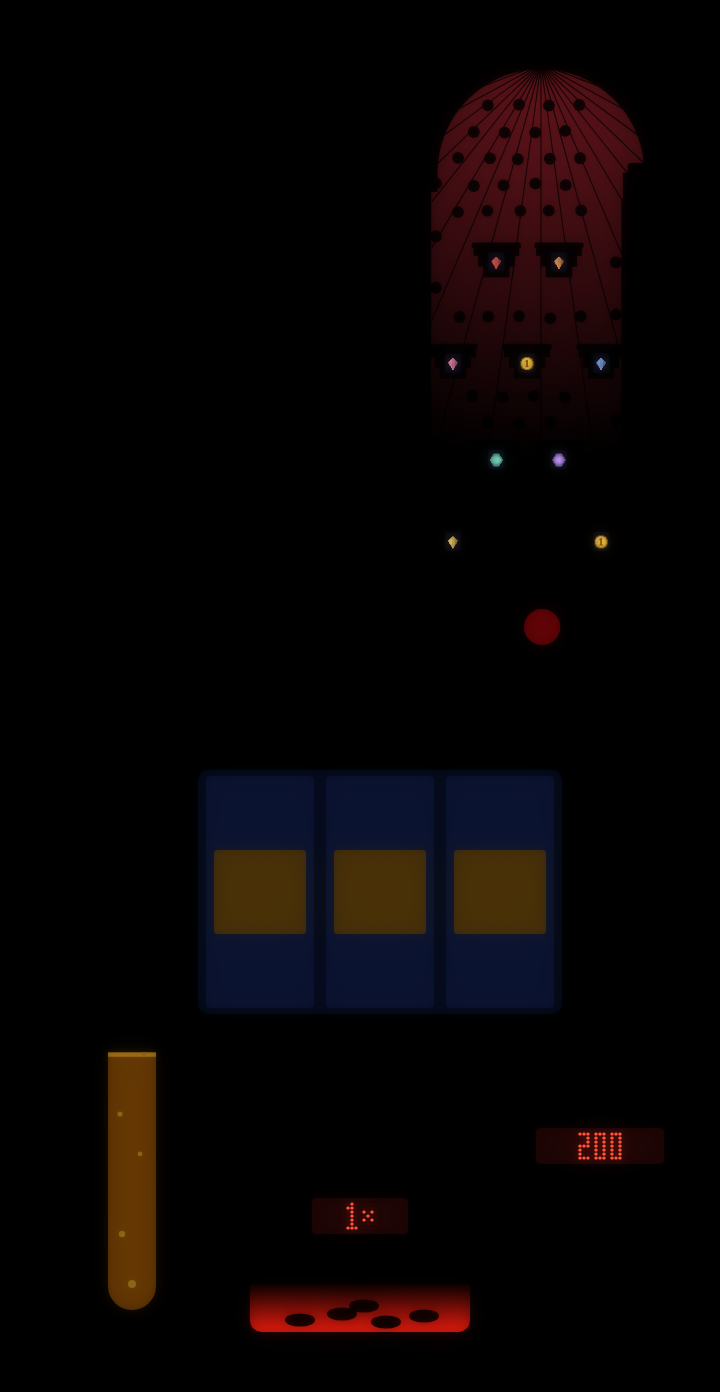
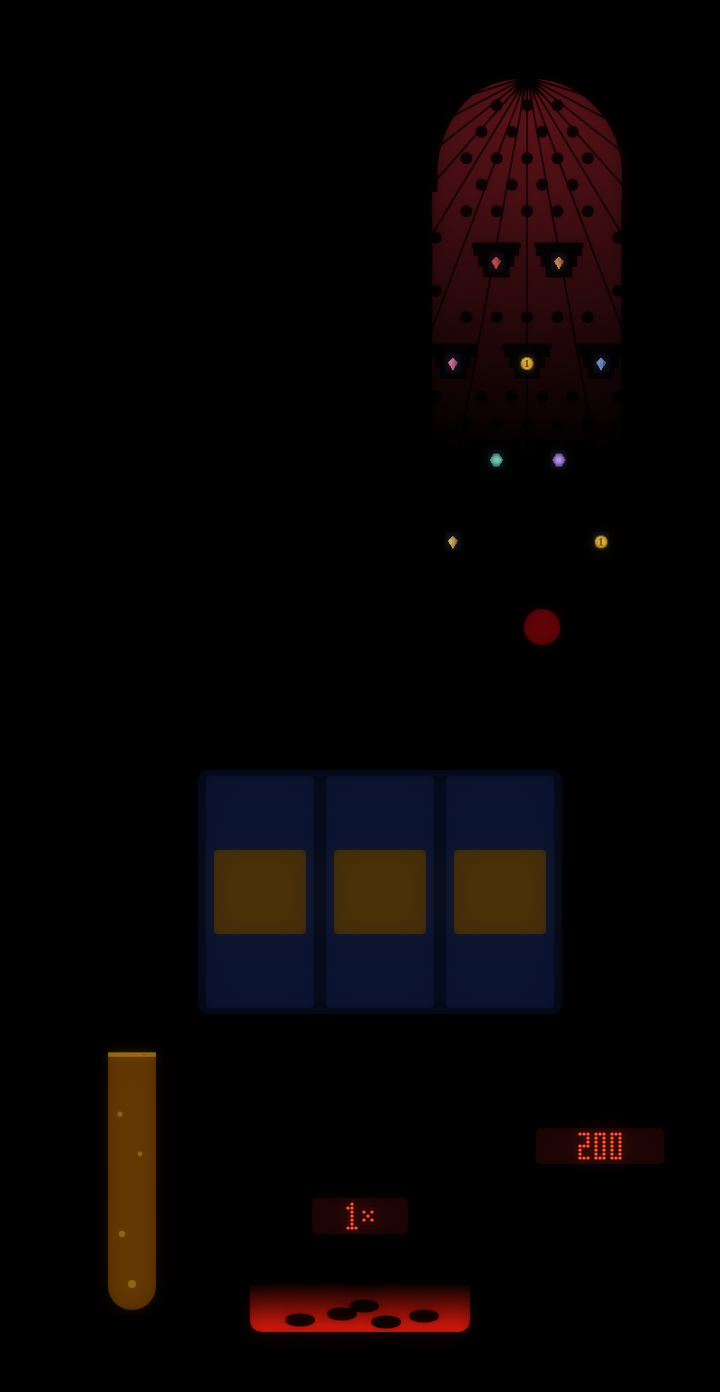
Алчность v2: пачинко — холст в точках экрана, поле своей плотной картой, поле по центру
Claude-Session: https://claude.ai/code/session_014b7WGtUGzHT9duRP7NWniS

Changed region(s): [[0.6111, 0.0309, 0.8861, 0.2471], [0.825, 0.1853, 0.8861, 0.2162], [0.7639, 0.2162, 0.825, 0.2471]]

diff --git a/src/minigames/greed/greed-lux.js b/src/minigames/greed/greed-lux.js
@@ -31,6 +31,8 @@ const GreedLux = {
         this._opts = opts;
         ['onPull', 'onSpinDone', 'onPach', 'onPachDone', 'onWheel', 'onWheelDone', 'canReady'].forEach(k => { this[k] = opts[k] || null; });
         if (typeof GreedDebug !== 'undefined' && GreedDebug.attach) GreedDebug.attach(container);
+        // гвозди пачинко — ровной раскладкой версии 2 (физика и запас — под неё)
+        GreedJunk.pachTidy(true);
         if (this.wrapEl) {
             container.appendChild(this.wrapEl);
             this.fit(container);
@@ -50,11 +52,20 @@ const GreedLux = {
             this.meta = meta;
             const [w, h] = meta.size;
             this.S = w / this.W;
-            this.cv.width = this.ic.width = w; this.cv.height = this.ic.height = h;
+            // Холст — в точках экрана, а не в текселях корпуса. Был размером
+            // карты (2 текселя на единицу), а у iPhone ~3,25 точки на единицу:
+            // браузер растягивал готовую картинку в 1,6 раза, и мелочь пачинко
+            // (лучи, гвозди, светодиоды табло) рвалась лесенкой — игрок, 18.11:
+            // «больно смотреть». Корпус в шейдере тянется так же мягко, как
+            // раньше, а поле пачинко — своя карта плотнее (комплект pach) —
+            // теперь доходит до экрана без растяжки. Значки (ic) — как были.
+            this.K = this.renderK();
+            this.cv.width = Math.round(this.W * this.K); this.cv.height = Math.round(this.H * this.K);
+            this.ic.width = w; this.ic.height = h;
             // корпус и живые части (шар рычага, диск колеса, указатель) —
             // по пять карт каждая
             const names = ['albedo', 'height', 'mat', 'emit', 'shade'];
-            this._setNames = ['body'].concat(meta.live ? ['ball', 'disc', 'ptr', 'plunger', 'pball'] : []);
+            this._setNames = ['body'].concat(meta.live ? ['ball', 'disc', 'ptr', 'plunger', 'pball'] : [], meta.live && meta.live.pach ? ['pach'] : []);
             const files = [].concat(...this._setNames.map(k => names.map(n => (k === 'body' ? '' : k + '-') + n)));
             const imgs = await Promise.all(files.map(n => new Promise((res, rej) => {
                 const i = new Image(); i.onload = () => res(i); i.onerror = rej; i.src = DIR + n + '.png';
@@ -67,6 +78,16 @@ const GreedLux = {
             return true;
         })();
         return this._mountP;
+    },
+    // Точек холста на единицу поля: как у экрана (поле во всю ширину рамки
+    // ~390 точек CSS на 360 единиц), не меньше плотности карт корпуса и не
+    // больше 3,25 (iPhone) — дальше только расход памяти и заливки.
+    // Отладка: localStorage 'gj-lux-k' — число.
+    renderK() {
+        let k = 0;
+        try { k = +localStorage.getItem('gj-lux-k') || 0; } catch (e) { /* нет хранилища */ }
+        if (!k) k = 1.08 * (window.devicePixelRatio || 1);
+        return Math.max(this.S, Math.min(3.25, k));
     },
     // Размер — как у гаражного: поле во весь проём рамки по ширине, по
     // высоте — видимая зона (docs/plan/29-greed-layout.md).
@@ -102,6 +123,7 @@ const GreedLux = {
         this.gl = null;
         if (this.wrapEl) this.wrapEl.remove();
         this.wrapEl = null; this._mountP = null; this.meta = null;
+        GreedJunk.pachTidy(false);
         this.reels = null; this._lv = null; this.ledCv = null; this.ledGrid = null; this.lampCv = null; this._wheel = null; this.fx = null;
         this._pach = null; this.pfx = null; this._pgl = null; this.glareCv = null;
     },
@@ -256,13 +278,15 @@ const GreedLux = {
         };
         // Комплект привязывается к units 0–4 на время своего рисунка (quad):
         // постоянных слотов на все комплекты у видеокарты телефона нет (16).
-        const set = (list) => ({ t: list.map((im, i) => tex(im, 0, i === 1)), w: list[1].width, h: list[1].height });
-        const names = this._setNames || ['body'];
+        // u — текселей на единицу поля (рельеф и узоры шейдера считаются в
+        // текселях): у всех комплектов как у корпуса, у поля пачинко — своя
+        const set = (list, u) => ({ t: list.map((im, i) => tex(im, 0, i === 1)), w: list[1].width, h: list[1].height, u });
+        const names = this._setNames || ['body'], live = this.meta && this.meta.live;
         this.sets = {};
-        names.forEach((k, j) => { this.sets[k] = set(imgs.slice(j * 5, j * 5 + 5)); });
+        names.forEach((k, j) => { this.sets[k] = set(imgs.slice(j * 5, j * 5 + 5), k === 'pach' ? live.pachS : this.S); });
         tex(goldCap, 5); tex(lacCap, 6);
         gl.uniform1i(gl.getUniformLocation(p, 'uG'), 5); gl.uniform1i(gl.getUniformLocation(p, 'uL'), 6);
-        gl.uniform1f(gl.getUniformLocation(p, 'uUnit'), this.S);
+        this.uUnit = gl.getUniformLocation(p, 'uUnit'); gl.uniform1f(this.uUnit, this.S); this._unit = this.S;
         [U.A, U.H, U.M, U.E, U.S].forEach((u, i) => gl.uniform1i(u, i));
         gl.uniform3f(gl.getUniformLocation(p, 'uFld'), this.W, this.H, this.Y0);
         this.U = Object.assign(U, { tex: gl.getUniformLocation(p, 'uTex'), dst: gl.getUniformLocation(p, 'uDst'), shadow: gl.getUniformLocation(p, 'uShadow'),
@@ -282,6 +306,7 @@ const GreedLux = {
         if (this._bound !== set) {
             set.t.forEach((t, i) => { gl.activeTexture(gl.TEXTURE0 + i); gl.bindTexture(gl.TEXTURE_2D, t); });
             this._bound = set;
+            if (set.u !== this._unit) { gl.uniform1f(this.uUnit, set.u); this._unit = set.u; }
         }
         gl.uniform2f(U.tex, 1 / set.w, 1 / set.h);
         gl.uniform4f(U.dst, x, y, x + w, y + h);
@@ -319,6 +344,9 @@ const GreedLux = {
         this._paintR = r || null;
         if (r) this.scissor(r);
         this.quad(this.sets.body, 0, this.Y0, this.W, this.H);
+        // поле пачинко — своей плотной картой поверх того же в корпусе
+        const pq = this.sets.pach && this.meta.live.pach;
+        if (pq && (!r || (r.x < pq[0] + pq[2] && r.x + r.w > pq[0] && r.y < pq[1] + pq[3] && r.y + r.h > pq[1]))) this.quad(this.sets.pach, pq[0], pq[1], pq[2], pq[3]);
         if (this.paintLive) this.paintLive();
         if (r) gl.disable(gl.SCISSOR_TEST);
         this._paintR = null;

diff --git a/src/minigames/greed/greed-junk-pachinko.js b/src/minigames/greed/greed-junk-pachinko.js
@@ -134,6 +134,7 @@ Object.assign(GreedJunk, {
     // уже шарика его зажимало, и он висел там до конца (физика пачинко,
     // greed-junk-pachinko-sim.js: так застревала половина шариков).
     pachNails() {
+        if (this.PACH_TIDY) return this.pachNailsTidy();
         const P = this.PACH, A = P.arc, C = P.cup, rnd = this.rng(4401), pts = [];
         const gap = 2 * 2.5 + 1.7 + 0.9;      // диаметр шарика + шляпка + запас
         // пристенные гвозди (ниже) и крайние ряды поля — на полный шарик
@@ -161,6 +162,42 @@ Object.assign(GreedJunk, {
             if (x === wr && y < A.cy + 22) continue;
             if (this.PACH_CUPS.some(c => x > c.x - C.w / 2 - gap && x < c.x + C.w / 2 + gap && y > c.y - gap && y < c.y + C.h + gap)) continue;
             pts.push([x, y + (rnd() - 0.5) * 1.2]);
+        }
+        return pts;
+    },
+
+    // Гвозди версии 2 (аппарат-люкс, greed-lux*.js): та же шахматка с тем
+    // же шагом и теми же просветами, но ровная и зеркальная относительно
+    // середины поля (между левой стенкой и перегородкой — там же середина
+    // лунок). Игрок (18.11): «внутренности съехали, не отцентровано» — у
+    // гаражных гвоздей середина ~250,4, у лунок 253,75, у арки 259,5, плюс
+    // разброс «на глаз»: в ар-деко это читается как брак. Под куполом поля
+    // (machine.py: купол — полукруг над полем, середина та же) гвоздь
+    // ставится, только если стоит и его зеркальная пара. Исход шарика решён
+    // заранее (запас запусков пересчитывается под эту раскладку,
+    // pachPoolId), так что игра от раскладки не меняется.
+    // Включает GreedLux.mount (PACH_TIDY), снимает unmount.
+    pachTidy(on) {
+        if (!!this.PACH_TIDY === !!on) return;
+        this.PACH_TIDY = !!on; this._pachWorld = null;
+    },
+    pachNailsTidy() {
+        const P = this.PACH, A = P.arc, C = P.cup, pts = [];
+        const gap = 2 * 2.5 + 1.7 + 0.9;
+        const wl = P.x0 + P.wall + 1.9, fc = (P.x0 + P.wall + P.sep) / 2, wr = 2 * fc - wl;
+        const left = wl + 1.7 + gap, right = 2 * fc - left, rd = (P.sep - P.x0 - P.wall) / 2;
+        const free = (x, y) => (y >= A.cy || (Math.hypot(x - A.cx, y - A.cy) <= A.r - 1.2 - gap && Math.hypot(x - fc, y - A.cy) <= rd - 3.2)) &&
+            !this.PACH_CUPS.some(c => x > c.x - C.w / 2 - gap && x < c.x + C.w / 2 + gap && y > c.y - gap && y < c.y + C.h + gap);
+        for (let row = 0, y = 4; y < P.drain - 6; row++, y += 11) {
+            const odd = row % 2;
+            for (let k = -6; k <= 6; k++) {
+                const x = fc + (odd ? 6.3 : 0) + k * 12.6;
+                if (x < left - 0.01 || x > right + 0.01) continue;
+                if (free(x, y) && free(2 * fc - x, y)) pts.push([x, y]);
+            }
+            // у стенок — парой, в рядах, где шахматка отступает от стен
+            // (под торцом перегородки — нет: шарик балансировал на шляпке)
+            if (odd && y >= A.cy + 22 && y < P.drain - 8 && free(wl, y) && free(wr, y)) pts.push([wl, y], [wr, y]);
         }
         return pts;
     },

diff --git a/tools/greed-lux-sketch/pach-geom.js b/tools/greed-lux-sketch/pach-geom.js
@@ -1,13 +1,13 @@
 const { chromium } = require('playwright'); const fs = require('fs');
 // Геометрия поля пачинко из игры → pach-geom.json для machine.py (версия 2
-// рисует ТО ЖЕ поле: гвозди, лунки, дуга, дорожка — физика и запас запусков
-// не меняются). Перезапускать, если поле в игре поменялось.
+// рисует ТО ЖЕ поле: лунки, дуга, дорожка; гвозди — ровной раскладкой
+// версии 2, GreedJunk.pachNailsTidy). Перезапускать, если поле в игре поменялось.
 //   NODE_PATH=/opt/node22/lib/node_modules node pach-geom.js
 (async () => {
   const b = await chromium.launch({ executablePath: require('../chrome-path') });
   const p = await b.newPage();
   await p.goto(`http://127.0.0.1:${process.env.PORT || 8777}/index.html`); await p.waitForTimeout(2000);
-  const g = await p.evaluate(() => { const G = GreedJunk; return {
+  const g = await p.evaluate(() => { const G = GreedJunk; G.pachTidy(true); return {
     PACH: G.PACH, CUPS: G.PACH_CUPS, AT: G.PACH_AT, nails: G.pachNails(), spring: G.pachSpringBox(), springDrop: G.SPRING_DROP,
     glass: G.pachGlassRect(), phys: { r: G.PACH_PHYS.r, nailR: G.PACH_PHYS.nailR }, world: (({ left, sep, sepTop, laneR, drain, start }) => ({ left, sep, sepTop, laneR, drain, start }))(G.pachWorld()) }; });
   fs.writeFileSync(__dirname + '/pach-geom.json', JSON.stringify(g));

diff --git a/src/minigames/greed/greed-junk-lit-pachinko.js b/src/minigames/greed/greed-junk-lit-pachinko.js
@@ -101,7 +101,7 @@ Object.assign(GreedJunkLit, {
     pachKey(done) { return done === 'drain' ? 'blank' : String(done).replace(/^cup:/, ''); },
     pachPoolId() {
         const G = GreedJunk, K = G.PACH_PHYS;
-        return 'gj-pach-pool:' + G.pachNails().length + ':' + G.PACH_CUPS.map(c => c.key + c.x + c.y).join('') +
+        return 'gj-pach-pool:' + (G.PACH_TIDY ? 't' : '') + G.pachNails().length + ':' + G.PACH_CUPS.map(c => c.key + c.x + c.y).join('') +
             ':' + [K.g, K.r, K.eNail, K.eWall, K.lip, K.v0.join('-')].join(',');
     },
     pachPool() {

diff --git a/tools/greed-lux-sketch/machine.py b/tools/greed-lux-sketch/machine.py
@@ -531,27 +531,35 @@ def pach_live():
     o = ink_rr(P['x0'], P['y0'], P['x1'], P['y1'], 8, LAC) + grect(P['x0'] + 2.6, P['y0'] + 2.6, P['x1'] - 2.6, P['y1'] - 2.6, 6, 1.0)
     # колодец поля: всё под дымчатым стеклом (материал стекла — отражения студии)
     o += rr(fx0 - 1, fy0 - 1, fx1 + 1, fy1 + 1, 4, c('#050404', 'glass', '#000'))
-    inner = f'M{cx - r} {cy} A{r} {r} 0 0 1 {cx + r} {cy} L{sep} {cy} L{sep} {drain} L{fx0} {drain} L{fx0} {cy} Z'
+    # Поле — между левой стенкой и перегородкой, сверху купол-полукруг той
+    # же середины (fc). Игрок, 18.11: «внутренности съехали» — поле было
+    # куполом дуги (её середина 259,5 — над полем вместе с дорожкой), а
+    # лунки и гвозди стоят по середине поля 253,75. Дуга-пруток физическая и
+    # остаётся где была: между ней и куполом — тёмный жёлоб, он справа
+    # переходит в дорожку (как у настоящих пачинко).
+    fc, rd = (fx0 + sep) / 2, (sep - fx0) / 2
+    inner = f'M{fx0} {drain} L{fx0} {cy} A{rd} {rd} 0 0 1 {sep} {cy} L{sep} {drain} Z'
     field = {'A': '#0d0a09', 'B': '#3a0a14', 'C': '#0a0909'}[PVF]
     edge = {'A': '#050403', 'B': '#1c040a', 'C': '#040303'}[PVF]
     glow = {'A': '#2a1a08', 'B': '#3a0c10', 'C': '#1e1408'}[PVF]
     if PASS == 'albedo':
-        o += (f'<radialGradient id="pfg" cx="{cx}" cy="{cy - 10}" r="190" gradientUnits="userSpaceOnUse">'
+        o += (f'<radialGradient id="pfg" cx="{fc}" cy="{cy - 10}" r="190" gradientUnits="userSpaceOnUse">'
               f'<stop offset="0" stop-color="{field}"/><stop offset="1" stop-color="{edge}"/></radialGradient>')
         o += f'<path d="{inner}" fill="url(#pfg)"/>'
     elif PASS == 'emit':
-        o += (f'<radialGradient id="pfe" cx="{cx}" cy="{cy - 30}" r="150" gradientUnits="userSpaceOnUse">'
+        o += (f'<radialGradient id="pfe" cx="{fc}" cy="{cy - 30}" r="150" gradientUnits="userSpaceOnUse">'
               f'<stop offset="0" stop-color="{glow}"/><stop offset="1" stop-color="#000"/></radialGradient>')
         o += f'<path d="{inner}" fill="url(#pfe)"/>'
     else:
         o += f'<path d="{inner}" fill="{c("#000", "glass")}"/>'
     o += f'<clipPath id="pfc"><path d="{inner}"/></clipPath><g clip-path="url(#pfc)">'
     if PVF in ('A', 'B'):
-        # лучи веером от верха арки — тонкая позолота, тихо
-        for k in range(23):
-            a = math.pi * (0.03 + 0.94 * k / 22)
-            x1_, y1_ = cx + math.cos(a) * 260, cy - r + math.sin(a) * 260
-            o += f'<line x1="{cx}" y1="{cy - r}" x2="{x1_:.1f}" y2="{y1_:.1f}" stroke="{c(GOLD, "gold")}" stroke-width="{0.35 if PVF == "A" else 0.45}" opacity="{0.45 if PASS == "albedo" else 1}"/>'
+        # лучи веером от верха купола — позолота, тихо. Толще волоска: в
+        # 0,45 единицы луч выходил в точку экрана и рвался лесенкой
+        for k in range(17):
+            a = math.pi * (0.04 + 0.92 * k / 16)
+            x1_, y1_ = fc + math.cos(a) * 260, cy - rd + math.sin(a) * 260
+            o += f'<line x1="{fc}" y1="{cy - rd}" x2="{x1_:.1f}" y2="{y1_:.1f}" stroke="{c(GOLD, "gold")}" stroke-width="{0.35 if PVF == "A" else 0.7}" opacity="{0.45 if PASS == "albedo" else 1}"/>'
     if PVF == 'C':
         # ромбическая решётка и солнце за серединой поля
         step = 12.6
@@ -563,6 +571,12 @@ def pach_live():
             a = 2 * math.pi * k / 17
             o += f'<line x1="{cx}" y1="122" x2="{cx + math.cos(a) * 40:.1f}" y2="{122 + math.sin(a) * 40:.1f}" stroke="{c(GOLD, "gold")}" stroke-width="0.5" opacity="{0.4 if PASS == "albedo" else 1}"/>'
     o += '</g>'
+    # кромка поля — позолота по купол и стенкам (роспись, не пруток: шарик
+    # с дуги проходит над ней)
+    o += f'<path d="{inner}" fill="none" stroke="{c(GOLD, "gold")}" stroke-width="0.8" opacity="{0.8 if PASS == "albedo" else 1}"/>'
+    # солнце в вершине купола — от него лучи
+    o += fan(fc, cy - rd + 0.4, 2.6, 9.5, math.pi * 0.1, math.pi * 0.9, 11, 0.9)
+    o += f'<path d="M{fc - 3} {cy - rd + 0.4} A3 3 0 0 0 {fc + 3} {cy - rd + 0.4} Z" fill="{c(GOLD, "gold")}"/>'
     # дорожка: канал с золотыми кромками
     o += rr(sep + 2, cy - 4, fx1, fy1, 1.5, c('#070505', 'lac'))
     # дуга — двойной золотой пруток
@@ -573,8 +587,6 @@ def pach_live():
     o += f'<path d="{sd_}" stroke="{c(INK)}" stroke-width="3.2" stroke-linecap="round"/><path d="{sd_}" stroke="{c(GOLD, "gold")}" stroke-width="2.2" stroke-linecap="round"/>'
     vy, vx0, vx1 = cy + 12 - 2.4, sep + 1, cx + r - 1
     o += f'<path d="M{vx0} {vy + 1.6} L{vx1} {vy - 0.6} L{vx1} {vy + 1.2} L{vx0} {vy + 3} Z" fill="{c(GOLD, "gold")}"/>'
-    # веер-пятачок над аркой
-    o += fan(cx, cy - r - 1.5, 3, 12, math.pi * 1.08, math.pi * 1.92, 11, 0.9)
     # сток — золотая решётка ар-деко над тёмной щелью
     o += rr(fx0, drain - 1, sep, fy1, 0.6, c('#030202', 'matte'))
     for x in range(int(fx0) + 2, int(sep) - 1, 3):
@@ -625,6 +637,14 @@ def pach_live():
     o += '</g>'
     o += f'<circle cx="{bx}" cy="{by}" r="{br + 2.8}" fill="{c(INK)}"/><circle cx="{bx}" cy="{by}" r="{br + 2.2}" fill="{c(GOLD, "gold")}"/><circle cx="{bx}" cy="{by}" r="{br}" fill="{c("#9a0e14", "glass", "#3a0204")}"/>'
     return pg(o)
+# Поле пачинко — своими картами плотнее корпуса (PS текселей на единицу
+# против MS): в нём самая мелочь аппарата, на телефоне ~3,25 точки на
+# единицу (greed-lux.js, renderK). Рисунок и рельеф — те же функции.
+PS = float(os.environ.get('PS', 3.25))
+def pach_box():
+    x0, y0 = pf(PP['x0'] - 0.5, PP['y0'] - 0.5)
+    x1, y1 = pf(PP['x1'] + 0.5, PP['y1'] + 0.5)
+    return x0, y0, x1 - x0, y1 - y0
 def pach_build_live():
     s_ = PAT['s']
     BX, BY = PAT['ax'] + (PX - PAT['x']) / s_, PAT['ay'] + (PY - PAT['y']) / s_
@@ -808,8 +828,13 @@ if __name__ == '__main__':
       for p in ('albedo', 'mat', 'emit'):
         open(f'{out}{name}-{p}.svg', 'w').write(part_svg(p, box, draw))
       part_height(box, build).save(f'{out}{name}-height.png')
+    keepS, S = S, PS
+    for p in ('albedo', 'mat', 'emit'):
+      open(f'{out}pach-{p}.svg', 'w').write(part_svg(p, pach_box(), pach_live))
+    part_height(pach_box(), pach_build_live).save(f'{out}pach-height.png')
+    S = keepS
     x, y, w = ball_box()
-    json.dump({'ball': [x, y, w], 'ballAt': list(BALL), 'lamp': list(LAMP), 'screen': list(SCRR), 'slot': [303, 300, 325, 404],
+    json.dump({'pach': list(pach_box()), 'pachS': PS, 'ball': [x, y, w], 'ballAt': list(BALL), 'lamp': list(LAMP), 'screen': list(SCRR), 'slot': [303, 300, 325, 404],
                'disc': list(disc_box()), 'ptr': list(ptr_box()), 'wheel': list(WH),
                'plunger': list(plunger_box()), 'pball': list(pball_box())}, open(f'{out}mach-live.json', 'w'))
   print('ok', W, H)

diff --git a/tools/greed-lux-sketch/bake-preview.py b/tools/greed-lux-sketch/bake-preview.py
@@ -19,16 +19,19 @@ S = emit.shape[1] / 360
 bloom = sum(gaussian_filter(emit, (r * S / 3, r * S / 3, 0)) * w for r, w in ((5, 0.5), (13, 0.32), (28, 0.18)))
 e = np.clip(emit * 1.15 + bloom * 0.6, 0, 1)
 Image.fromarray((e * 255).astype(np.uint8)).save(dst + 'emit.png', optimize=True)
-# тень главного света (сверху-слева) по рельефу + затенение впадин
-occ = np.zeros_like(h)
-d = np.array([-0.42, -0.5]); d /= np.linalg.norm(d)
-for i in range(1, 13):
-    t = i * 3.0 * S / 3
-    hs = shift(h, (-d[1] * t, -d[0] * t), order=1, mode='nearest')
-    occ = np.maximum(occ, np.clip((hs - h - t / S * 0.75) * 0.5, 0, 1))
-ha = gaussian_filter(h, 9 * S / 3 / 1.5)
-ao = np.clip(1 - np.maximum(0, ha - h) * 0.22, 0.35, 1)
-shade = np.clip((1 - 0.55 * occ) * ao, 0, 1)
+# тень главного света (сверху-слева) по рельефу + затенение впадин;
+# S — текселей на единицу
+def shade_of(h, S):
+    occ = np.zeros_like(h)
+    d = np.array([-0.42, -0.5]); d /= np.linalg.norm(d)
+    for i in range(1, 13):
+        t = i * 3.0 * S / 3
+        hs = shift(h, (-d[1] * t, -d[0] * t), order=1, mode='nearest')
+        occ = np.maximum(occ, np.clip((hs - h - t / S * 0.75) * 0.5, 0, 1))
+    ha = gaussian_filter(h, 9 * S / 3 / 1.5)
+    ao = np.clip(1 - np.maximum(0, ha - h) * 0.22, 0.35, 1)
+    return np.clip((1 - 0.55 * occ) * ao, 0, 1)
+shade = shade_of(h, S)
 Image.fromarray((shade * 255).astype(np.uint8)).save(dst + 'shade.png', optimize=True)
 for f in ('albedo', 'mat'):
     Image.open(src + f'mach-{f}.png').convert('RGB').save(dst + f + '.png', optimize=True)
@@ -42,6 +45,19 @@ if os.path.exists(src + 'mach-live.json'):
     meta['live'] = json.load(open(src + 'mach-live.json'))
     # спрайты: шар рычага, диск колеса, указатель. Свечение диска (экраны
     # секторов) — с ореолом, как у корпуса, но в своём квадрате
+    # Поле пачинко (pach) — плотнее корпуса и непрозрачное: свечение,
+    # тень и затенение впадин — как у корпуса, по своему рельефу и в своём
+    # масштабе (PS текселей на единицу)
+    if 'pach' in meta['live']:
+        PSc = meta['live']['pachS']
+        pe = np.asarray(Image.open(src + 'pach-emit.png').convert('RGB'), np.float32) / 255
+        pb = sum(gaussian_filter(pe, (r * PSc / 3, r * PSc / 3, 0)) * w for r, w in ((5, 0.5), (13, 0.32), (28, 0.18)))
+        Image.fromarray((np.clip(pe * 1.15 + pb * 0.6, 0, 1) * 255).astype(np.uint8)).save(dst + 'pach-emit.png', optimize=True)
+        php = np.asarray(Image.open(src + 'pach-height.png').convert('RGB'), np.float32)
+        Image.fromarray((shade_of((php[..., 0] * 256 + php[..., 1]) / 65535 * 64, PSc) * 255).astype(np.uint8)).save(dst + 'pach-shade.png', optimize=True)
+        for f in ('albedo', 'mat'):
+            Image.open(src + f'pach-{f}.png').convert('RGBA').save(dst + f'pach-{f}.png', optimize=True)
+        shutil.copy(src + 'pach-height.png', dst + 'pach-height.png')
     for part in ('ball', 'disc', 'ptr', 'plunger', 'pball'):
         for f in ('albedo', 'mat'):
             Image.open(src + f'{part}-{f}.png').convert('RGBA').save(dst + f'{part}-{f}.png', optimize=True)

diff --git a/docs/plan/31-greed-premium.md b/docs/plan/31-greed-premium.md
@@ -902,3 +902,16 @@
   (`pachGlareMount`/`pachGlareAt` в `greed-lux-pach.js`): широкие мягкие
   косые полосы рисуются один раз, наклон двигает слой переносом, без
   перерисовки. Слой над шариком (шарик под стеклом), обрезан колодцем.
+* 18.11 — пачинко v2: «разрешение всратое, глаза режет» и «внутренности
+  съехали». (1) Холст версии 2 был размером карты корпуса (2 текселя на
+  единицу), на iPhone браузер растягивал его в 1,6 раза — мелочь поля рвалась
+  лесенкой. Теперь холст в точках экрана (`renderK`, до 3,25; отладка —
+  `localStorage 'gj-lux-k'`), поле пачинко — своим комплектом карт плотностью
+  3,25 (`pach-*`, `PS` в `machine.py`), у каждого комплекта своя плотность
+  текселей в шейдере (`uUnit`). Корпус как был (2). (2) У поля было три
+  середины: арка 259,5 (над полем вместе с дорожкой), лунки 253,75, гвозди
+  ~250,4 с разбросом «на глаз». Теперь купол поля — своей середины 253,75,
+  лучи и солнце — из его вершины, гвозди — ровная зеркальная шахматка
+  (`GreedJunk.pachNailsTidy`, включает `GreedLux.mount`; гаражный — прежние).
+  Физическая дуга не тронута: между ней и куполом — жёлоб, справа он
+  переходит в дорожку. Запас запусков — под новую раскладку (`pachPoolId`).
